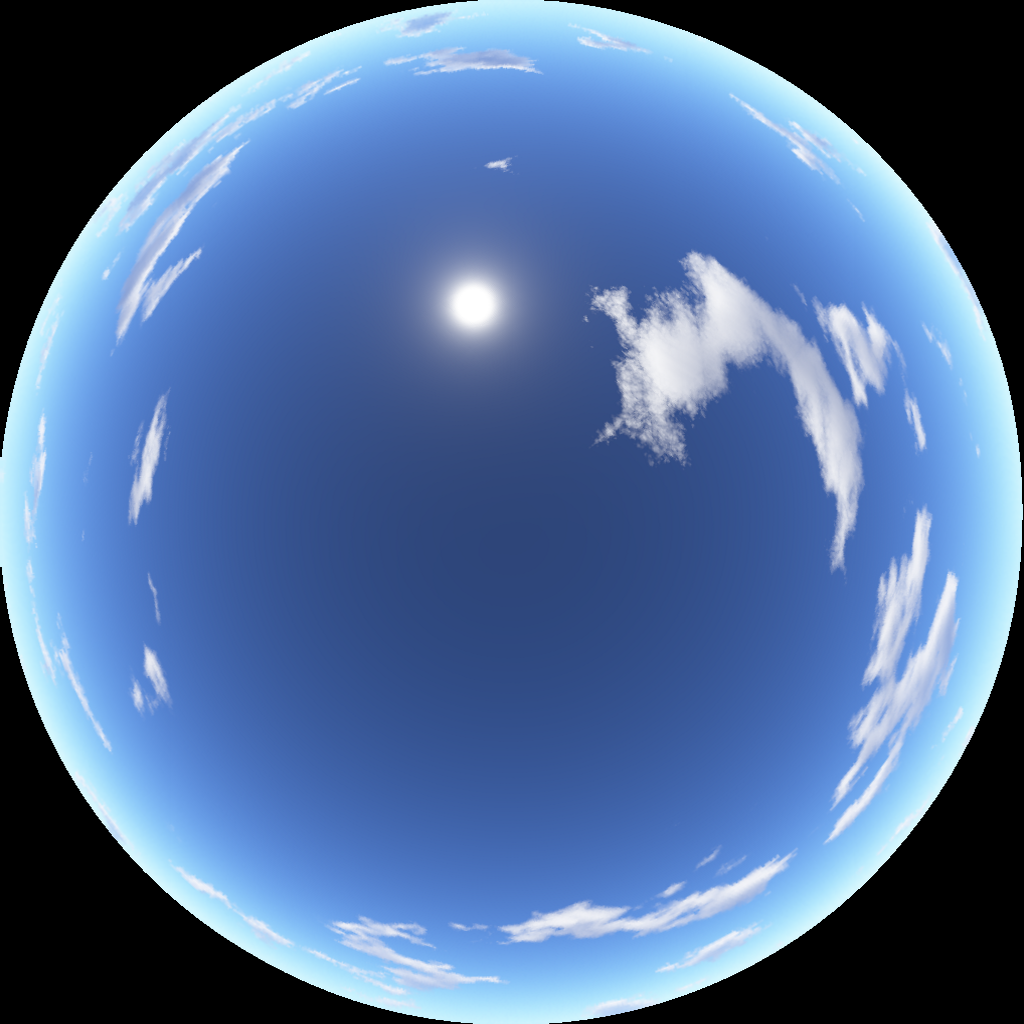
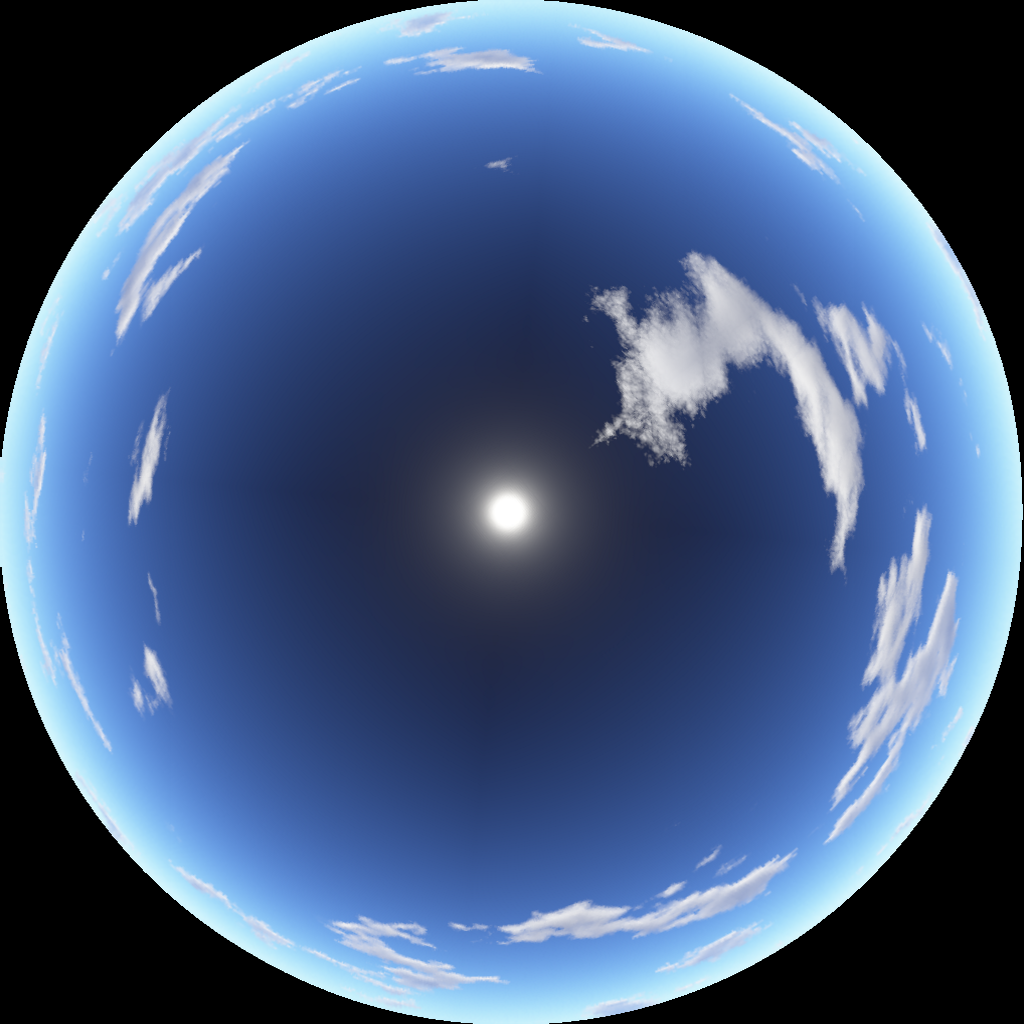
[ZPG] Rotate Sky around. Imported from Changeset 104

diff --git a/ZPG/TestSceneBuilder.cpp b/ZPG/TestSceneBuilder.cpp
@@ -79,7 +79,9 @@ SceneBuilder * TestSceneBuilder::BuildLights(Scene * scene)
 SceneBuilder * TestSceneBuilder::BuildSky(Scene * scene)
 {
 	bool skyBox = true;
+	bool rotate = true;
 
+	Object *sky = nullptr;
 	if (skyBox)
 	{
 		auto program = scene->Add(new Program("Shaders\\SkyBox"));
@@ -95,7 +97,7 @@ SceneBuilder * TestSceneBuilder::BuildSky(Scene * scene)
 		auto staticSkyBoxModel = staticModelManager->Get(StaticModelType::StaticModelType_Cube);
 		auto dynamicSkyBoxModel = modelManager->Get(ModelType::ModelType_SkyBox);
 
-		auto skyBox = scene->Add(new SkyBox(program, dynamicSkyBoxModel, images));
+		auto skyBox = sky = scene->Add(new SkyBox(program, dynamicSkyBoxModel, images));
 	}
 	else
 	{
@@ -103,7 +105,13 @@ SceneBuilder * TestSceneBuilder::BuildSky(Scene * scene)
 
 		auto dynamicSkyDomeModel = modelManager->Get(ModelType::ModelType_SkyDome);
 
-		auto skyDome = scene->Add(new SkyDome(program, dynamicSkyDomeModel, "SkyDome-Cloud-Few-MidMorning.png", 30));
+		auto skyDome = sky = scene->Add(new SkyDome(program, dynamicSkyDomeModel, "SkyDome-Cloud-Few-MidMorning.png", 30));
 	}
+
+	if (rotate)
+		sky->RegisterOnUpdate([sky]() {
+		sky->GetTransform().AddRotation(0.005f, vec3(0, 1, 0));
+	});
+
 	return this;
 }

diff --git a/ZPG/SkyBox.cpp b/ZPG/SkyBox.cpp
@@ -20,6 +20,7 @@ void SkyBox::PreRender()
 
 	GetProgram()->Use();
 	GetModel()->PreRender();
+	GetProgram()->Send("model", GetTransform().Get());
 	texture->Bind();
 	GetProgram()->Send("skybox", 0);
 }
